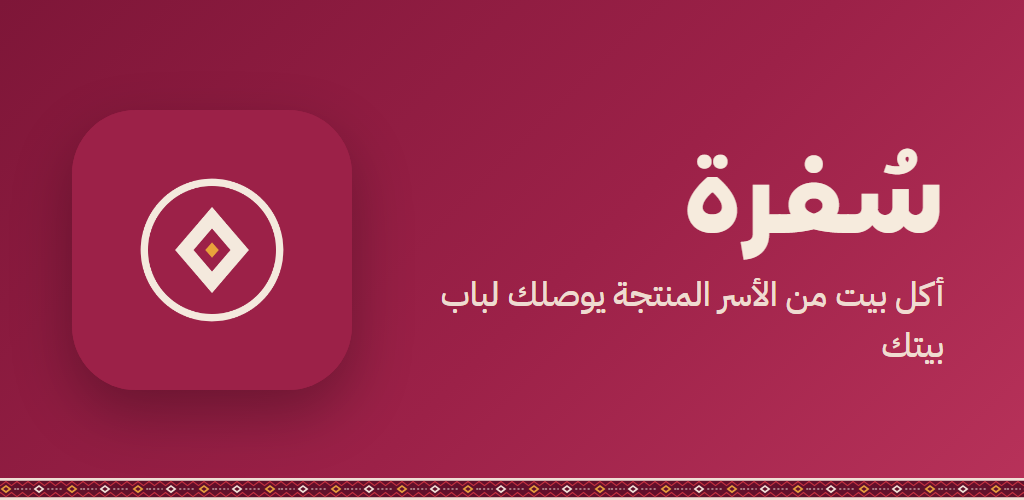
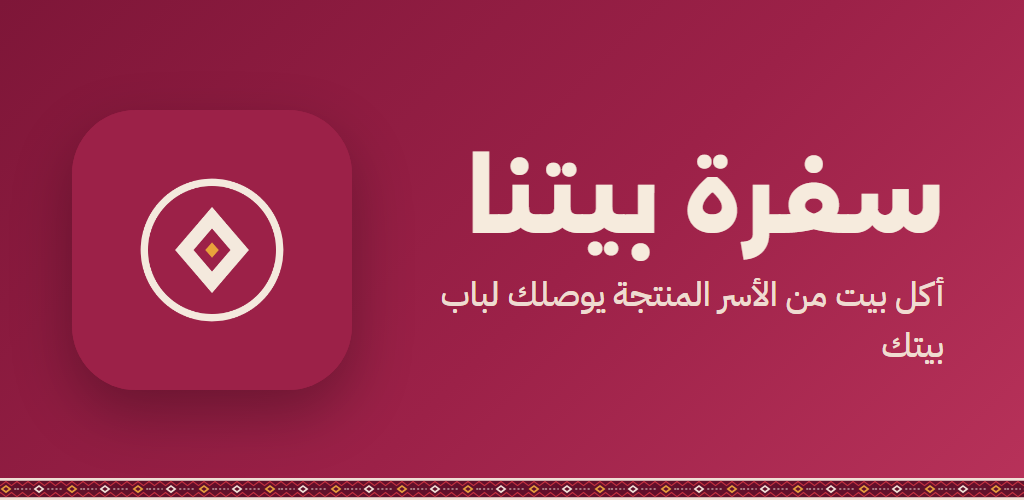
سُفرة الجديدة: كل ميزات المنصة (202611151508)

Changed region(s): [[0.4375, 0.3, 0.6562, 0.51], [0.8438, 0.3, 0.9062, 0.36]]

diff --git a/index.html b/index.html
@@ -3,7 +3,7 @@
 <head>
 <meta charset="utf-8">
 <meta name="viewport" content="width=device-width, initial-scale=1, viewport-fit=cover">
-<title>سُفرة</title>
+<title>سفرة بيتنا</title>
 <meta name="description" content="سُفرة: أكل بيت من الأسر المنتجة، اطلبه توصيل أو استلام من المطبخ.">
 <meta name="theme-color" content="#9C2148">
 <meta name="color-scheme" content="light dark">
@@ -12,7 +12,7 @@
 <link rel="apple-touch-icon" href="icons/apple-touch-icon.png">
 <meta name="apple-mobile-web-app-capable" content="yes">
 <meta name="mobile-web-app-capable" content="yes">
-<meta name="apple-mobile-web-app-title" content="سُفرة">
+<meta name="apple-mobile-web-app-title" content="سفرة بيتنا">
 <meta name="apple-mobile-web-app-status-bar-style" content="default">
 <link rel="preconnect" href="https://uzwuvzxdjijlbfguhlmc.supabase.co" crossorigin>
 <link rel="preconnect" href="https://fonts.gstatic.com" crossorigin>

diff --git a/sw.js b/sw.js
@@ -2,7 +2,7 @@
    - الصفحات: الشبكة أول (عشان التحديثات توصل فورًا) وبدونها النسخة المحفوظة
    - الملفات الثابتة: المحفوظ أول مع تحديث بالخلفية
    - الإشعارات: يعرض الإشعار من الحمولة، والضغط يفتح الرابط */
-const CACHE = 'sufrah-202611142004';
+const CACHE = 'sufrah-202611151508';
 const CORE = ['./', 'index.html', 'family.html', 'admin.html', 'css/sufrah.css', 'js/core.js', 'js/config.js', 'img/mark.svg', 'img/sadu.svg', 'manifest.json'];
 
 self.addEventListener('install', (e) => {

diff --git a/native/store/play.md b/native/store/play.md
@@ -4,7 +4,7 @@
 مفتاحا التوقيع في `Downloads/codemagic-sufrah/` (المرجعان في Codemagic: `sufrah_upload` و`sufrah_family_upload`، كلمات المرور في keystores.txt هناك، لا تُنسخ هنا).
 
 ## 1) سُفرة (العملاء) · sa.sufrah.app
-- الاسم: سُفرة للأكل البيتي
+- الاسم: سفرة بيتنا (كان: سُفرة للأكل البيتي، غيّرته فادية 2026-11-15)
 - الوصف القصير (80 حرفًا): أكل بيت طازج من الأسر المنتجة في الشرقية، توصيل أو استلام
 - الوصف الكامل: نفس وصف آبل في listing.md (عربي، ثم السطر الإنجليزي)
 - الفئة: الطعام والشراب · مجاني · بدون إعلانات
@@ -28,3 +28,20 @@
 2. Firebase: مشروع جديد «Sufrah» (منفصل عن خافت) فيه تطبيقا أندرويد sa.sufrah.app وsa.sufrah.family ← google-services.json لكل واحد (Base64 في مجموعة `firebase` بـCodemagic: GOOGLE_SERVICES_CUSTOMER_B64 وGOOGLE_SERVICES_FAMILY_B64) + مفتاح حساب خدمة ← سر Supabase `FCM_SERVICE_ACCOUNT`.
 3. بناية «سُفرة Android» ثم «سُفرة للأسر Android» ← تنزيل AAB.
 4. Play Console: إنشاء التطبيقين، البيانات والصور، الإصدار على الإنتاج (السعودية)، إرسال للمراجعة.
+
+## الحالة 2026-11-14 (مساءً)
+- Firebase: مشروع جديد منفصل `sufrah-d820d` (حساب فادية) فيه sa.sufrah.app وsa.sufrah.family؛ google-services.json مشترك للاثنين في Downloads/codemagic-sufrah/google-services-sufrah.json (وB64 جاهز)، وحساب الخدمة سر Supabase FCM_SERVICE_ACCOUNT (health: fcm=true).
+- Play Console: التطبيقان أُنشئا: العملاء app id 4975475009785262903، الأسر 4976260840536723513. كل بيانات الإعداد (11/11) مكتملة للاثنين: خصوصية، وصول للمراجعة، إعلانات، جمهور 18+، تصنيف IARC (3+/للجميع)، أمان البيانات، حكومي/مالي/صحة/معرّف إعلاني، الفئة (مطاعم ومقاهي / أعمال)، جهة الاتصال، وبطاقة المتجر بالصور.
+- الباقي: مفاتيح التوقيع ومتغيّرات firebase في Codemagic (فادية)، ثم بناية Android لكل تطبيق، ثم إصدار الإنتاج (السعودية) والإرسال للمراجعة.
+
+## 2026-11-15 صباحًا
+- آبل: الإصدار 1.0 للتطبيقين REJECTED (reviewSubmission = UNRESOLVED_ISSUES، submitted 2026-11-14). السبب غير متاح عبر API؛ يُقرأ من App Store Connect (يحتاج دخول فادية في كروم) أو من بريد الرفض.
+- سوبابيس: دخلت المنظمة Fadia Free (pnmisvsbdveddfbuwxlj)، نافذة Upgrade to Pro مفتوحة في كروم وتطلب بطاقة (ما فيه وسيلة دفع). اليوم 25$، التقدير الشهري 35$ لأن المنظمة فيها 3 مشاريع.
+- Codemagic: ما زال ينتظر رفع keystores + متغيرات firebase من فادية.
+- (لاحقًا 2026-11-15) سبب رفض آبل للاثنين: Guideline 2.1 Information Needed (تسجيل شاشة من جهاز حقيقي + وصف الغرض والخدمات والمناطق في Notes). كتبت Notes كاملة بالإنجليزي عبر API للتطبيقين (reviewDetail d74151af للعميل، 27e82d17 للأسر) وبقي سطر VIDEO LINK. أنشأت مجموعة TestFlight داخلية «Internal» لكل تطبيق (da91969c عميل، 5fa58ddf أسر) وفادية مدعوّة مختبرًا. بعد وصول الفيديوهات: إرفاقها كـ appStoreReviewAttachments أو رابط، ثم resubmit (الإصدار 1.0 نفسه، البناء 1).
+- الاسم الجديد لتطبيق العملاء «سفرة بيتنا» (en: Sufrah Baytna): مطبّق في App Store (appInfoLocalization) وفي بطاقة Play (الاسم + الصورة المميزة الجديدة) وفي codemagic.yaml DISPLAY_NAME وindex.html (محليًا، يحتاج بناء iOS/Android جديد ليتغيّر اسم الأيقونة). الأسر باقٍ «سُفرة للأسر».
+- سوبابيس: Fadia Free صارت Pro، وSufrah على Micro.
+
+## 2026-11-15 مساءً
+- Codemagic: أضفت مجموعة `firebase` بالمتغيرين GOOGLE_SERVICES_CUSTOMER_B64 وGOOGLE_SERVICES_FAMILY_B64 (نفس القيمة، ملف واحد فيه التطبيقين) في إعدادات تطبيق sufrah. ما زال ينقص رفع مفتاحي التوقيع (sufrah_upload وsufrah_family_upload) من فادية: Settings ← Code signing identities ← Android keystores؛ ملفات الرفع لا تُرفع تلقائيًا من Claude.
+- صفحة انضمام الأسر حيّة: https://fadiaalzhrani-debug.github.io/sufrah/join.html ، ورسالة الدعوة في `_tools/families-invite.md`.
